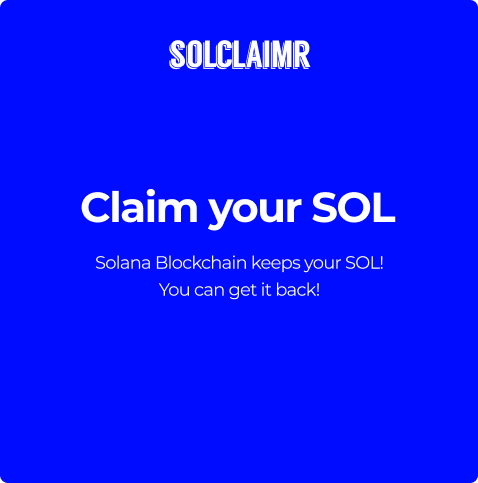
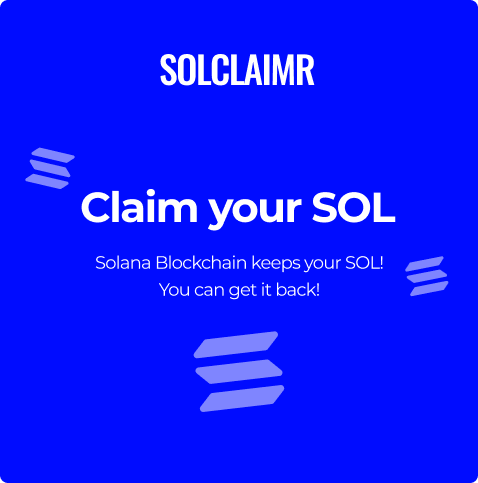
feat: update images

diff --git a/src/app/api/action/route.ts b/src/app/api/action/route.ts
@@ -1,5 +1,5 @@
 import { ActionGetResponse, ActionPostRequest, ActionPostResponse, ACTIONS_CORS_HEADERS, InlineNextActionLink, PostNextActionLink } from "@solana/actions";
-import { PublicKey, Connection, clusterApiUrl, Transaction, SystemProgram } from "@solana/web3.js";
+import { PublicKey, Connection, clusterApiUrl, Transaction, SystemProgram, TransactionMessage } from "@solana/web3.js";
 import { getEmptyTokenAccounts } from "./helpers";
 import { createCloseAccountInstruction, TOKEN_PROGRAM_ID } from "@solana/spl-token";
 import { BlinksightsClient } from 'blinksights-sdk';
@@ -12,7 +12,7 @@ export async function GET(req: Request) {
   const requestUrl = new URL(req.url);
   const iconURL = new URL("/claimer.png", requestUrl.origin);
 
-  const response: ActionGetResponse = client.createActionGetResponseV1(req.url, {
+  const response: ActionGetResponse =  {
     icon: iconURL.toString(),
     description: 'Close Token Accounts to get back your SOL',
     title: 'SOLClaimr',
@@ -37,7 +37,7 @@ export async function GET(req: Request) {
         },
       ]
     },
-  });
+  };
   client.trackRenderV1(req.url, response);
   return new Response(JSON.stringify(response), {
     status: 200,
@@ -137,11 +137,27 @@ export async function POST(req: Request) {
         toPubkey: claimerWallet,
       });
 
+
       tx.add(sendToMyWalletInstruction);
 
       tx.feePayer = user;
       const bh = (await connection.getLatestBlockhash({commitment: 'finalized'})).blockhash;
       tx.recentBlockhash = bh;
+
+      const blinksightsActionIdentityInstruction = client.getActionIdentityInstructionV2(userPublicKey, req.url);
+
+
+
+      // if(blinksightsActionIdentityInstruction){
+      //   const messageV0 = new TransactionMessage({
+      //     payerKey: user,
+      //     recentBlockhash: bh,
+      //     instructions: [
+      //         blinksightsActionIdentityInstruction
+      //     ],
+      //   }).compileToV0Message();
+      //   console.log(messageV0)
+      // }
 
       const serializedTX = tx.serialize({
         requireAllSignatures: false,
